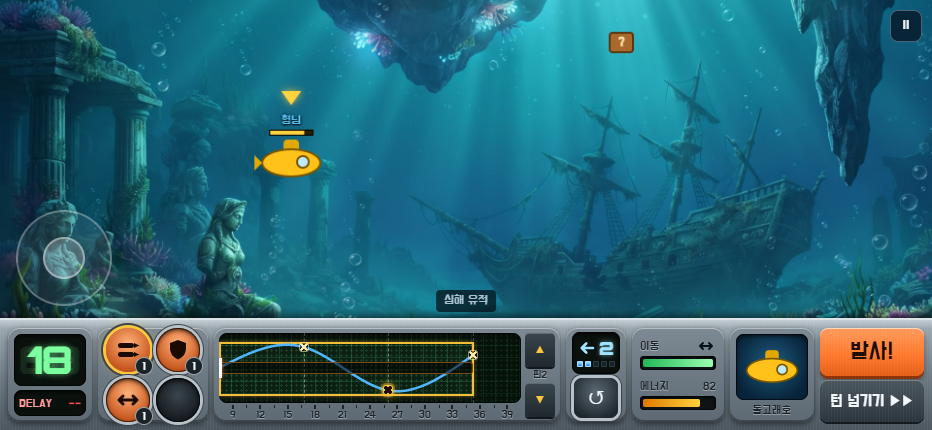
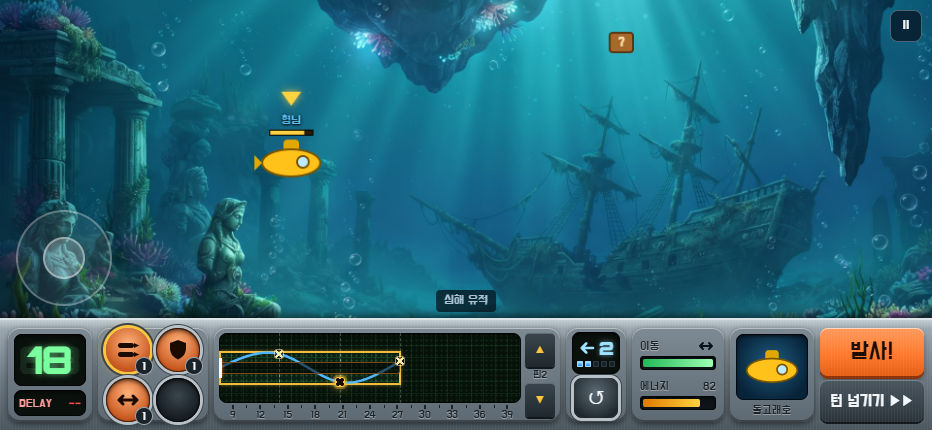
한계 박스 밸런스: 돌고래호 중간형(거리60, 각도27~73)

Changed region(s): [[0.2178, 0.786, 0.529, 0.9372]]

diff --git a/js/config.js b/js/config.js
@@ -39,19 +39,22 @@ window.GAME_CONFIG = {
     //   left         = 잠수함 쪽 변. 기본 0 = 상자가 판의 잠수함 쪽 끝(곡선·발사 게이지가 시작하는 곳)에 딱 붙음 (형님 지시 5차)
     //                  나중에 「최소 거리」가 있는 캐릭터가 생기면 이 값을 올림 (점은 이보다 앞에 못 둠)
     //   right        = 바라보는 쪽 변 (최대 거리). 발사 거리 게이지가 여기서 멈춤
-    limit: { left: 0, right: 84, top: 14, bottom: 88 },
+    //   [밸런스 규칙] 거리가 길면 각도는 좁게(박스 위아래 짧게), 거리가 짧으면 각도는 넓게(박스 위아래 길게)
+    //   캐릭터별 예시: 장거리형 {right:88, top:38, bottom:62} / 중간형 {right:60, top:27, bottom:73} / 단거리형 {right:38, top:10, bottom:90}
+    //   돌고래호 = 중간형 (균형)
+    limit: { left: 0, right: 60, top: 27, bottom: 73 },
 
     // 궤도 판 점 3개의 기본 모양 [가로%, 세로%] — ↺(다시) 누르면 이 높이로 돌아감.
     //   가로%는 캐릭터마다 정해진 고정값 (점은 위아래로만 끔). 세로%는 limit.top ~ limit.bottom 안
     //   곡선은 「내 잠수함 높이(판 세로 가운데)」에서 출발 → 점1 → 점2 → 점3 을 정확히 지나 → 판 끝까지 이어짐
-    //   지금 돌고래호: 상자 가로(0~84)를 4등분한 자리 21·42·63 에 고르게 놓음 (3개 모두 상자 안)
+    //   지금 돌고래호: 상자 가로(0~60)를 3등분한 자리 20·40·60 에 고르게 놓음 (3개 모두 상자 안)
     //
     //   [밸런스 메모] 점 간격이 곧 캐릭터 성격
     //   - 간격이 고르고 좁음 (예: 거북이 같은 단거리형 → 가로 [14, 28, 42], limit.right 56쯤)
     //       → 곡선 모양을 예측하기 쉬움 = 가까운 적을 정확히 맞히는 캐릭터
     //   - 간격이 고르지 않고 넓음 (예: 원거리형 → 가로 [16, 40, 76], limit.right 84)
     //       → 멀리까지 크게 휘게 만들 수 있지만 모양 잡기가 어려움
-    padPoints: [ [28, 20], [56, 82], [84, 32] ]   // 규칙(형님): 맨 끝 핀(핀3)의 가로 위치 = 한계 박스 오른쪽 끝(limit.right)
+    padPoints: [ [20, 30], [40, 70], [60, 40] ]   // 규칙(형님): 맨 끝 핀(핀3)의 가로 위치 = 한계 박스 오른쪽 끝(limit.right)
   },
 
   // 잠수함 이동 (조이스틱)
